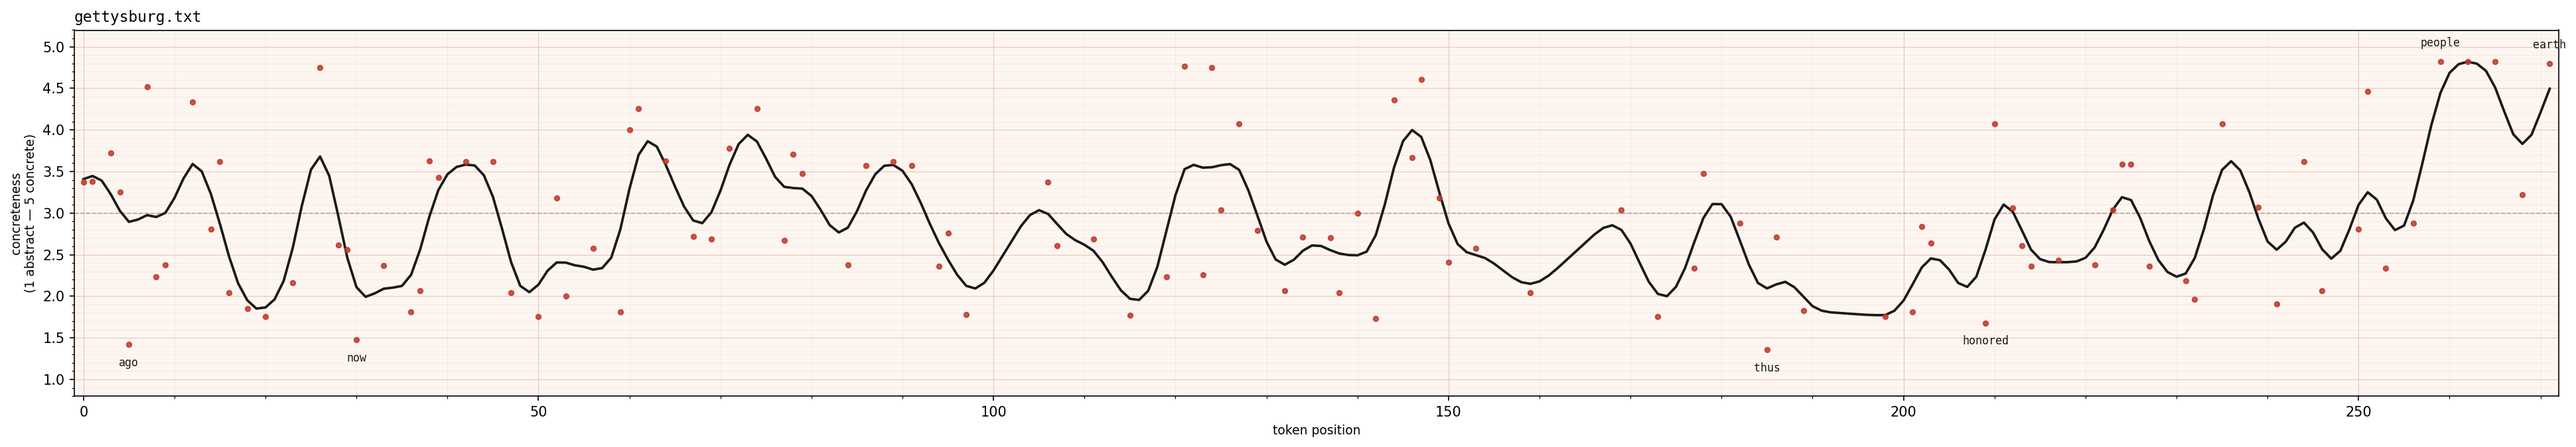
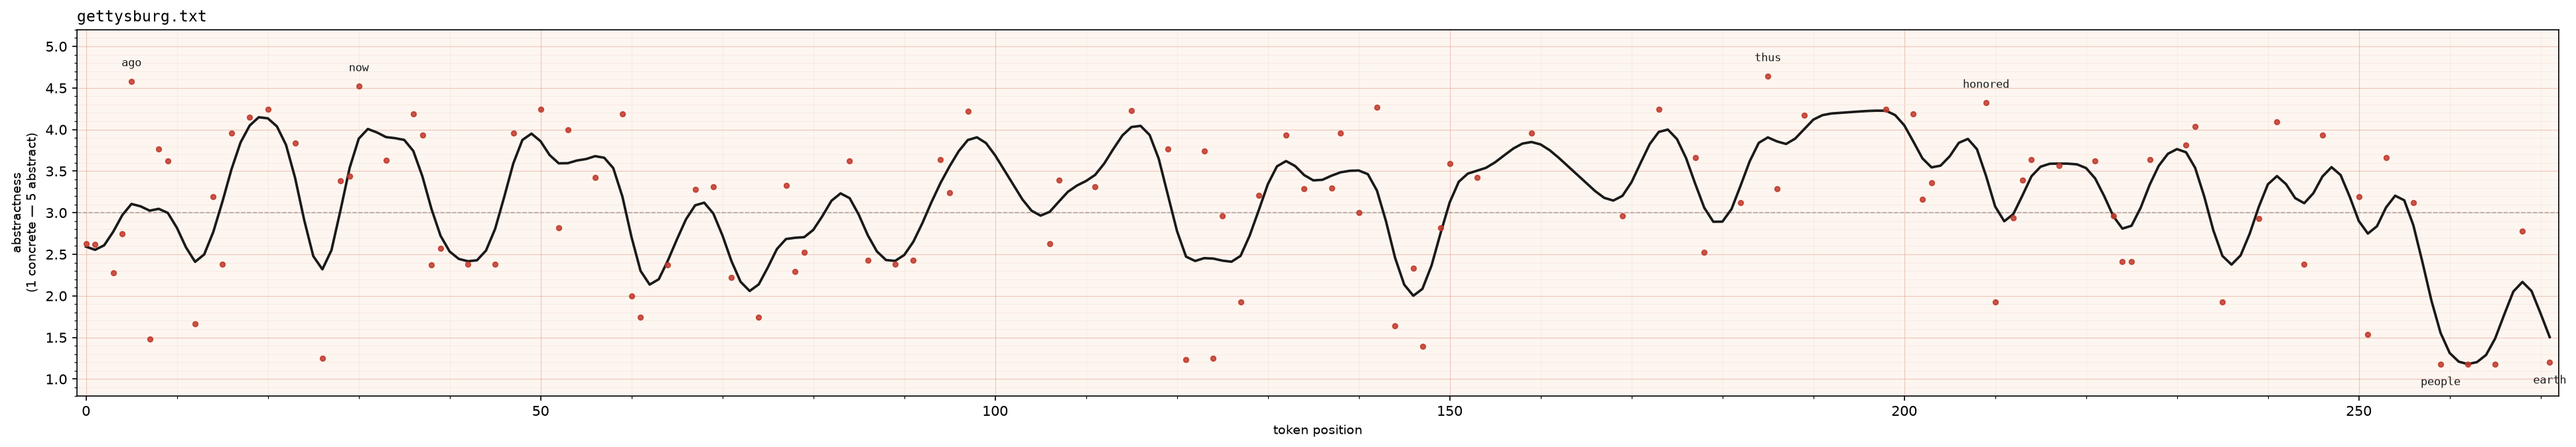
Report abstractness (1=concrete, 5=abstract) instead of concreteness
Norms and probe stay internally on the Brysbaert concreteness scale;
both scorers invert (6 - value) at the reporting boundary. Axis labels,
README, and sample Gettysburg traces updated. sentence1_trace.png is
still on the old scale (source sentence unknown).

diff --git a/construal_ekg.py b/construal_ekg.py
@@ -1,9 +1,11 @@
 #!/usr/bin/env python3
 """
-construal_ekg.py — trace the concreteness/abstraction waveform of a text.
+construal_ekg.py — trace the abstractness waveform of a text.
 
-Lead I of the construal EKG: lexical concreteness (Brysbaert et al. 2014,
-~40k human-rated lemmas, scale 1=abstract .. 5=concrete).
+Lead I of the construal EKG: lexical abstractness, from the Brysbaert et al.
+2014 concreteness norms (~40k human-rated lemmas). Norms are rated
+1=abstract .. 5=concrete; we report the inverted scale (6 - rating), so
+1=concrete .. 5=abstract — higher means more abstract.
 
 Content words are the R-waves; function words are the isoelectric line
 (interpolated through, not scored).
@@ -81,7 +83,7 @@ def score_text(text, norms):
         score = None
         for cand in lemma_candidates(w):
             if cand in norms:
-                score = norms[cand]
+                score = 6.0 - norms[cand]   # invert: report abstractness
                 break
         out.append((tok, score, True))
     return out
@@ -131,7 +133,7 @@ def render(scored, title, outpath, label_all_words=False, annotate_n=8):
 
     ax.set_ylim(0.8, 5.2)
     ax.set_xlim(-1, n)
-    ax.set_ylabel("concreteness\n(1 abstract — 5 concrete)", fontsize=9)
+    ax.set_ylabel("abstractness\n(1 concrete — 5 abstract)", fontsize=9)
     ax.set_title(title, fontsize=11, fontfamily="monospace", loc="left")
 
     if label_all_words:

diff --git a/construal_ekg2.py b/construal_ekg2.py
@@ -6,6 +6,10 @@ Scores every token *in context* by projecting its contextual embedding
 through the probe trained by train_probe.py. Polysemy resolves: "hard
 problem" and "hard surface" diverge. Coverage is 100% of content words.
 
+The probe predicts Brysbaert concreteness (1=abstract .. 5=concrete);
+reported scores are inverted (6 - prediction) to the abstractness scale
+(1=concrete .. 5=abstract), matching construal_ekg.py.
+
 Function words remain the isoelectric line (unscored, interpolated) for
 comparability with v1.
 
@@ -64,7 +68,7 @@ class ContextualScorer:
             if start + window >= len(words):
                 break
         counts[counts == 0] = 1
-        return np.clip(scores / counts, 1.0, 5.0)
+        return 6.0 - np.clip(scores / counts, 1.0, 5.0)  # invert: abstractness
 
     def score_text(self, text):
         """Returns v1-compatible scored list: (token, score_or_None, is_content)."""
@@ -112,7 +116,7 @@ def overlay_render(scored_a, scored_b, labels, outpath):
     ax.axhline(3.0, color="#888", lw=0.8, ls="--", alpha=0.6)
     ax.set_ylim(0.8, 5.2)
     ax.set_xlabel("normalized position", fontsize=9)
-    ax.set_ylabel("concreteness\n(1 abstract — 5 concrete)", fontsize=9)
+    ax.set_ylabel("abstractness\n(1 concrete — 5 abstract)", fontsize=9)
     ax.legend(frameon=False, fontsize=9)
     fig.tight_layout()
     fig.savefig(outpath, bbox_inches="tight")

diff --git a/README.md b/README.md
@@ -1,10 +1,13 @@
 # cl-scan — a construal EKG
 
-Trace the concreteness/abstractness waveform of a text, word by word.
-Concreteness (1 = abstract … 5 = concrete) is the standard lexical proxy for
-construal level. Content words are the R-waves; function words are the
-isoelectric line — unscored and interpolated through. The trace is
-Gaussian-smoothed and rendered on an ECG-paper strip.
+Trace the abstractness waveform of a text, word by word. Lexical
+concreteness/abstractness is the standard proxy for construal level; scores
+are reported on an abstractness scale (1 = concrete … 5 = abstract), so
+higher means more abstract. (The underlying Brysbaert norms rate
+concreteness 1–5; scorers invert with 6 − rating at the reporting boundary.)
+Content words are the R-waves; function words are the isoelectric line —
+unscored and interpolated through. The trace is Gaussian-smoothed and
+rendered on an ECG-paper strip.
 
 ## Setup
 
@@ -33,8 +36,8 @@ python3 construal_ekg.py --file speech.txt out.png
 ## v2 — contextual scorer (`construal_ekg2.py`)
 
 Scores every token *in context* by projecting its contextual embedding through
-a linear probe. Polysemy resolves ("hard problem" ≈ 2.0 vs. "hard surface" ≈
-3.5) and coverage is 100% of content words. Requires `probe.npz` (committed;
+a linear probe. Polysemy resolves ("hard problem" ≈ 4.0 vs. "hard surface" ≈
+2.5 abstractness) and coverage is 100% of content words. Requires `probe.npz` (committed;
 retrain with `train_probe.py`).
 
 ```sh
